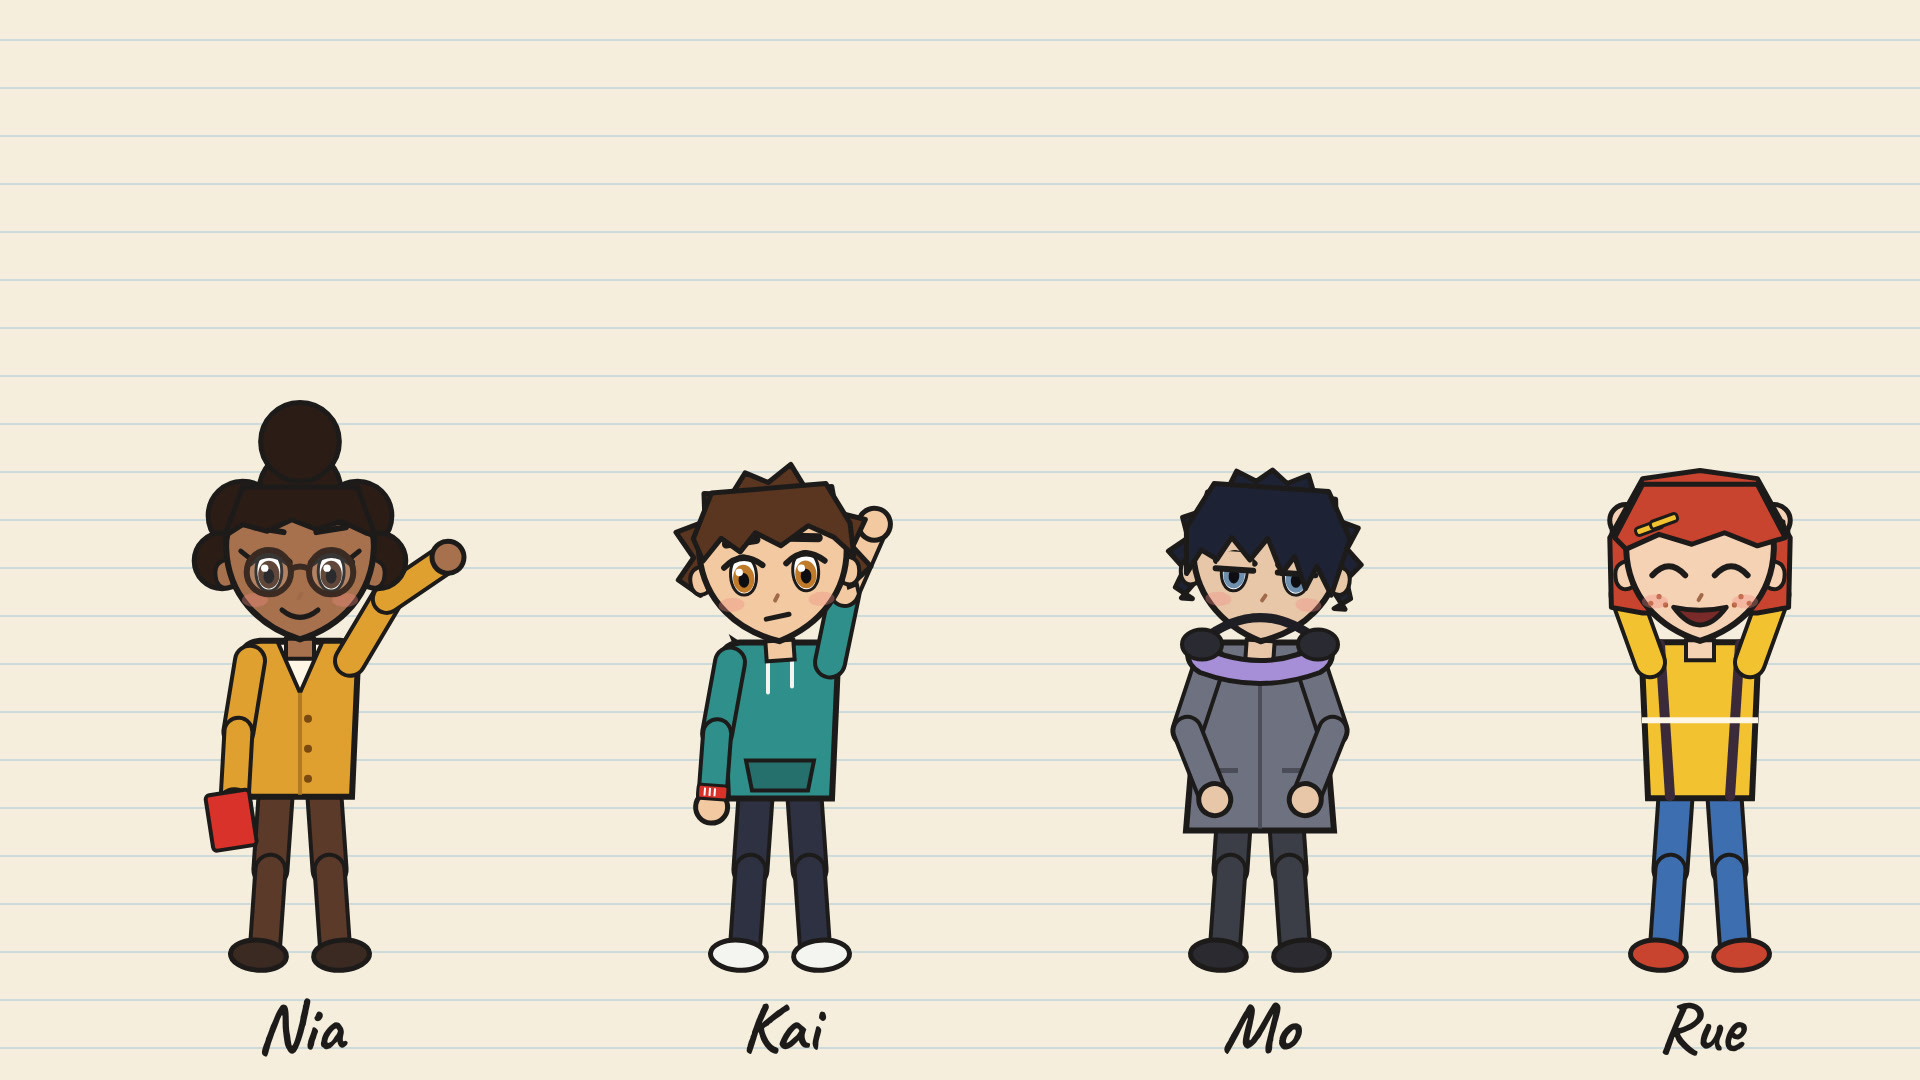
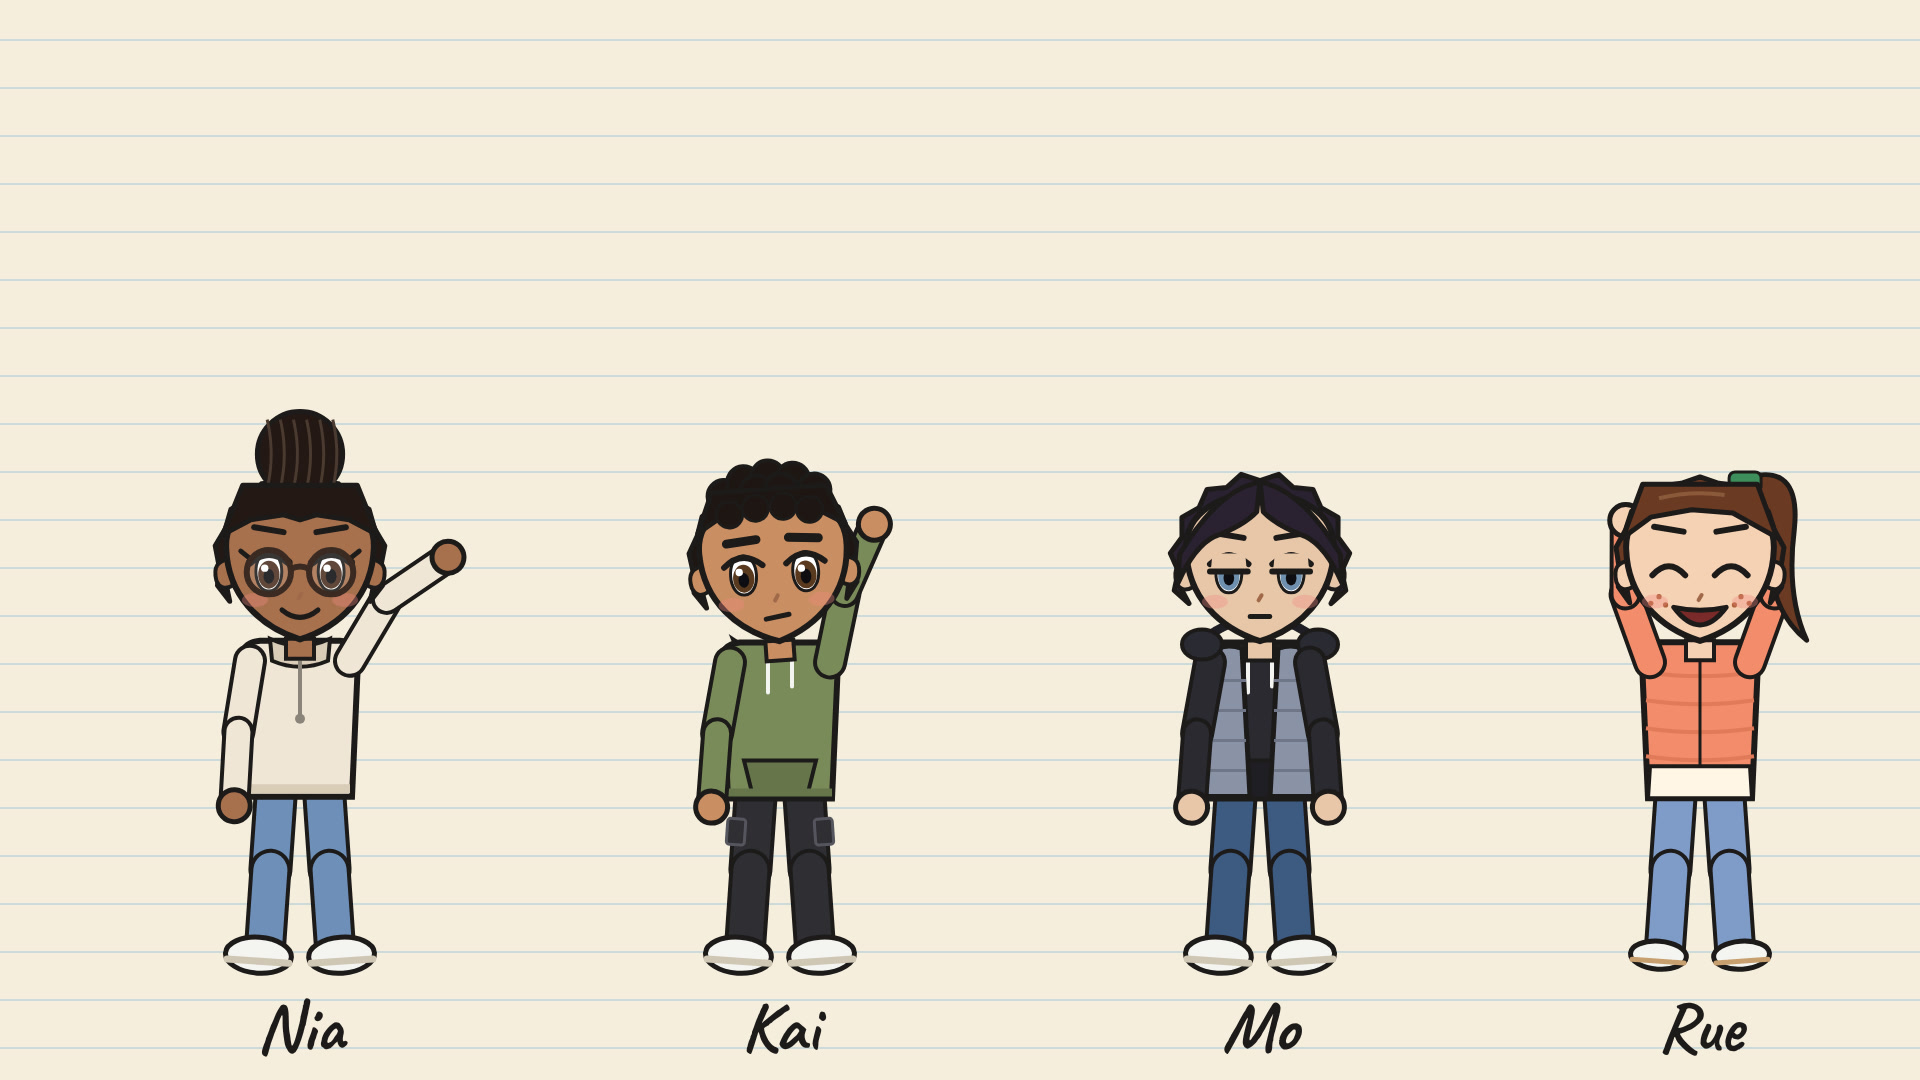
Social Ripple cast: common hairstyles + current streetwear
Claude-Session: https://claude.ai/code/session_01BFgAxmP7ubruifvaTKx5Vg

diff --git a/research/meta-muse/social-ripple/shorts/kit/cast.js b/research/meta-muse/social-ripple/shorts/kit/cast.js
@@ -11,10 +11,10 @@
     const el = I.el, INK = I.INKC, NS = "http://www.w3.org/2000/svg";
     const clamp = (v, a, b) => Math.max(a, Math.min(b, v)), ease = (u) => (u < 0.5 ? 4 * u * u * u : 1 - Math.pow(-2 * u + 2, 3) / 2);
     const D = {
-      nia: { skin: "#A8714E", hair: "#2B1D16", hairStyle: "puff", top: "#E0A030", top2: "#FFF6E6", pants: "#5B3A2A", shoe: "#3A2A22", eye: "#4A2E1E", glasses: true, notebook: true, lash: true },
-      kai: { skin: "#F2C9A0", hair: "#5A3520", hairStyle: "swoop", top: "#2F8F8A", top2: "#25706C", pants: "#2D3142", shoe: "#F4F4F0", eye: "#C07A2A", brows: "thick", torn: true, wristband: true, hood: true },
-      mo: { skin: "#E8C7A8", hair: "#1E2235", hairStyle: "shag", top: "#6E7280", top2: "#5C606C", pants: "#3B3E48", shoe: "#2A2A30", eye: "#6F8FAF", scarf: "#A68FD6", phones: true, tired: true, coat: true },
-      rue: { skin: "#F6D2B4", hair: "#C8442E", hairStyle: "bob", top: "#F2C230", top2: "#E0A81E", pants: "#3D6FB0", shoe: "#C8442E", eye: "#3E8E5A", freckles: true, straps: true, bandage: true, clips: true },
+      nia: { skin: "#A8714E", hair: "#231813", hairStyle: "braidbun", top: "#EFE6D6", top2: "#D9CDB8", pants: "#6E8FB8", shoe: "#F4F4F0", eye: "#4A2E1E", glasses: true, lash: true, halfzip: true, wide: true, chunky: true },
+      kai: { skin: "#C98E62", hair: "#1E1612", hairStyle: "fade", top: "#7A8B5A", top2: "#66764A", pants: "#2E2E33", shoe: "#F4F4F0", eye: "#5A3A1E", brows: "thick", hood: true, hoodie: true, cargo: true, chunky: true, wide: true },
+      mo: { skin: "#E8C7A8", hair: "#2A2230", hairStyle: "curtain", top: "#2A2A30", top2: "#1E1E24", pants: "#3D5A80", shoe: "#F4F4F0", eye: "#6F8FAF", phones: true, tired: true, hood: true, vest: "#8A93A6", wide: true, chunky: true },
+      rue: { skin: "#F6D2B4", hair: "#6B3A22", hairStyle: "pony", top: "#F28C6A", top2: "#E07A58", pants: "#7F9CC8", shoe: "#F4F4F0", sole: "#C8A070", eye: "#3E8E5A", freckles: true, bandage: true, puffer: true, wide: true },
     };
     const POSES = {
       stand: { root: 0, lift: 0, side: 0, torso: 0, head: 0, aL: 10, eL: -6, aR: -10, eR: 6, lL: 4, kL: 0, lR: -4, kR: 0 },
@@ -34,8 +34,10 @@
       const limb = (p, px, py, L, w, col, end) => { const g = G(p); const seg = G(g); el("path", { d: `M0,0 L0,${L}`, stroke: INK, "stroke-width": w + 8, "stroke-linecap": "round" }, seg);
         el("path", { d: `M0,0 L0,${L}`, stroke: col, "stroke-width": w, "stroke-linecap": "round" }, seg); const j = G(g); return { g, j, px, py, L }; };
       // ---- legs (hip at 0,0; feet at y=+170)
-      const legs = [-1, 1].map((d) => { const th = limb(body, d * 24, 0, 80, 30, c.pants); const sh = limb(th.j, 0, 80, 78, 26, c.pants);
-        const shoe = el("ellipse", { cx: d * 6, cy: 86, rx: 28, ry: 15, fill: c.shoe, stroke: INK, "stroke-width": 5 }, sh.j); return { th, sh, d, shoe }; });
+      const legs = [-1, 1].map((d) => { const th = limb(body, d * 24, 0, 80, c.wide ? 36 : 30, c.pants); const sh = limb(th.j, 0, 80, 78, c.wide ? 34 : 26, c.pants);
+        if (c.cargo) el("rect", { x: d > 0 ? 8 : -26, y: 30, width: 18, height: 26, rx: 3, fill: c.pants, stroke: "#55555E", "stroke-width": 3 }, th.g);
+        const shoe = el("ellipse", { cx: d * 6, cy: 86, rx: c.chunky ? 33 : 28, ry: c.chunky ? 18 : 14, fill: c.shoe, stroke: INK, "stroke-width": 5 }, sh.j);
+        el("path", { d: `M${d * 6 - (c.chunky ? 31 : 26)},${92} h${c.chunky ? 62 : 52}`, stroke: c.sole || "#CFC6B4", "stroke-width": c.chunky ? 7 : 5, "stroke-linecap": "round" }, sh.j); return { th, sh, d, shoe }; });
       // ---- torso group (pivot at hip)
       const torso = G(body);
       if (c.hood) el("path", { d: "M-46,-150 Q0,-120 46,-150 Q30,-110 0,-108 Q-30,-110 -46,-150 Z", fill: c.top2, stroke: INK, "stroke-width": 5 }, torso);
@@ -43,10 +45,10 @@
         : el("path", { d: "M-58,-128 Q-60,-146 -40,-148 L40,-148 Q60,-146 58,-128 L52,8 L-52,8 Z", fill: c.top, stroke: INK, "stroke-width": 6 }, torso);
       const tSide = el("path", { d: c.coat ? "M-36,-130 Q-38,-148 -18,-150 L22,-150 Q42,-146 40,-128 L52,40 L-46,40 Z" : "M-34,-128 Q-36,-148 -16,-150 L22,-150 Q42,-146 40,-126 L36,8 L-34,8 Z", fill: c.top, stroke: INK, "stroke-width": 6, style: "display:none" }, torso);
       const n0 = torso.childNodes.length;
-      if (name === "kai") { el("path", { d: "M-34,-30 h68 l-6,30 h-56 z", fill: c.top2, stroke: INK, "stroke-width": 4 }, torso); el("path", { d: "M-12,-138 v40 M12,-138 v34", stroke: "#F4F4F0", "stroke-width": 4, "stroke-linecap": "round" }, torso); }
-      if (name === "nia") { el("path", { d: "M-22,-146 L0,-96 L22,-146 Z", fill: c.top2, stroke: INK, "stroke-width": 4 }, torso); el("path", { d: "M0,-96 V6", stroke: "#B07A20", "stroke-width": 4 }, torso); [-70, -40, -10].forEach((yy) => el("circle", { cx: 8, cy: yy, r: 4, fill: "#7A4A10" }, torso)); }
-      if (name === "mo") { el("path", { d: "M0,-140 V38", stroke: "#4A4D58", "stroke-width": 4 }, torso); el("path", { d: "M-52,-20 h30 M22,-20 h30", stroke: "#4A4D58", "stroke-width": 5 }, torso); }
-      if (name === "rue") { el("path", { d: "M-40,-146 L-30,6 M40,-146 L30,6", stroke: "#3A2A3A", "stroke-width": 10, "stroke-linecap": "round" }, torso); el("path", { d: "M-58,-70 H58", stroke: "#FFF6E6", "stroke-width": 6 }, torso); }
+      if (c.hoodie || c.hood) { el("path", { d: "M-36,-30 h72 l-8,32 h-56 z", fill: c.top2, stroke: INK, "stroke-width": 4 }, torso); el("path", { d: "M-12,-138 v40 M12,-138 v34", stroke: "#F4F4F0", "stroke-width": 4, "stroke-linecap": "round" }, torso); el("path", { d: "M-52,2 H52", stroke: c.top2, "stroke-width": 8 }, torso); }
+      if (c.halfzip) { el("path", { d: "M-30,-150 Q0,-136 30,-150 L28,-128 Q0,-116 -28,-128 Z", fill: c.top2, stroke: INK, "stroke-width": 4 }, torso); el("path", { d: "M0,-128 V-70", stroke: "#8A847A", "stroke-width": 4 }, torso); el("circle", { cx: 0, cy: -70, r: 5, fill: "#8A847A" }, torso); el("path", { d: "M-50,0 H50", stroke: c.top2, "stroke-width": 9 }, torso); }
+      if (c.vest) { el("path", { d: "M-56,-132 Q-40,-150 -18,-142 L-10,6 L-54,6 Z M56,-132 Q40,-150 18,-142 L10,6 L54,6 Z", fill: c.vest, stroke: INK, "stroke-width": 5 }, torso); for (let k = 0; k < 4; k++) el("path", { d: `M-52,${-110 + k * 30} H-14 M14,${-110 + k * 30} H52`, stroke: "#6E7688", "stroke-width": 3 }, torso); }
+      if (c.puffer) { for (let k = 0; k < 4; k++) el("path", { d: `M-54,${-118 + k * 28} Q0,${-110 + k * 28} 54,${-118 + k * 28}`, fill: "none", stroke: c.top2, "stroke-width": 4 }, torso); el("path", { d: "M0,-146 V-24", stroke: INK, "stroke-width": 3 }, torso); el("path", { d: "M-50,-24 H50 L52,8 H-52 Z", fill: "#FFF6E6", stroke: INK, "stroke-width": 4 }, torso); }
       const det = el("g", {}); Array.from(torso.childNodes).slice(n0).forEach((nd) => det.appendChild(nd)); torso.appendChild(det);
       // ---- arms (shoulders at ±50,-128)
       const sleeve = c.top;
@@ -64,7 +66,13 @@
       const ring = (a0, a1, n, rin, rout, jit) => { const pts = []; for (let i = 0; i <= n; i++) { const a = (a0 + (a1 - a0) * i / n) * Math.PI / 180, rr = i % 2 ? rout + (((i * 37) % 7) - 3) / 3 * jit : rin; pts.push([Math.cos(a) * rr, Math.sin(a) * rr]); } return pts; };
       const poly = (pts) => "M" + pts.map((q) => U(q[0], q[1])).join(" L") + " Z";
       // back hair
-      if (c.hairStyle === "puff") { [[-0.7, -0.55, 0.42], [0, -0.85, 0.5], [0.7, -0.55, 0.42], [-0.95, 0.0, 0.34], [0.95, 0.0, 0.34], [0, -1.45, 0.48]].forEach(([u, v, rr]) => el("circle", { cx: u * r, cy: -228 + v * r, r: rr * r, fill: c.hair, stroke: INK, "stroke-width": 5 }, headG)); }
+ if (c.hairStyle === "braidbun") { P(poly(ring(150, 390, 18, 0.99, 1.05, 0.0).concat([[0.95, 0.05], [-0.95, 0.05]])), c.hair, 5); el("circle", { cx: 0, cy: -228 - 1.3 * r, r: 0.52 * r, fill: c.hair, stroke: INK, "stroke-width": 5 }, headG);
+        for (let k = 0; k < 6; k++) el("path", { d: `M${(-0.4 + k * 0.16) * r},${-228 - 1.72 * r} q8,${0.42 * r} 0,${0.84 * r}`, fill: "none", stroke: "#4A3A30", "stroke-width": 3 }, headG); }
+      if (c.hairStyle === "fade") { P(poly(ring(150, 390, 18, 0.99, 1.04, 0.0).concat([[0.95, 0.05], [-0.95, 0.05]])), c.hair, 5); [[-0.55, -0.85], [-0.3, -1.0], [0, -1.05], [0.3, -1.0], [0.55, -0.85], [-0.15, -0.88], [0.15, -0.88], [-0.42, -0.7], [0.42, -0.7]].forEach(([u, v]) => el("circle", { cx: u * r, cy: -228 + v * r, r: 0.2 * r, fill: c.hair, stroke: INK, "stroke-width": 4 }, headG)); }
+      if (c.hairStyle === "curtain") P(poly(ring(150, 390, 20, 1.0, 1.1, 0.0).concat([[1.0, 0.25], [-1.0, 0.25]])), c.hair, 5);
+      if (c.hairStyle === "pony") { P(`M${U(0.35, -0.95)} Q${U(1.25, -1.35)} ${U(1.15, -0.4)} Q${U(1.05, 0.4)} ${U(1.3, 0.95)} Q${U(0.8, 0.55)} ${U(0.85, -0.3)} Z`, c.hair, 5); P(poly(ring(150, 390, 18, 0.99, 1.04, 0.0).concat([[0.95, 0.05], [-0.95, 0.05]])), c.hair, 5);
+        el("rect", { x: 0.55 * r - 16, y: -228 - 0.98 * r - 10, width: 32, height: 20, rx: 6, fill: "#3E8E5A", stroke: INK, "stroke-width": 3 }, headG); }
+     if (c.hairStyle === "puff") { [[-0.7, -0.55, 0.42], [0, -0.85, 0.5], [0.7, -0.55, 0.42], [-0.95, 0.0, 0.34], [0.95, 0.0, 0.34], [0, -1.45, 0.48]].forEach(([u, v, rr]) => el("circle", { cx: u * r, cy: -228 + v * r, r: rr * r, fill: c.hair, stroke: INK, "stroke-width": 5 }, headG)); }
       if (c.hairStyle === "swoop") P(poly(ring(160, 380, 16, 0.98, 1.2, 0.05).concat([[0.95, 0.05], [-0.95, 0.05]])), c.hair, 5);
       if (c.hairStyle === "shag") P(poly(ring(150, 390, 22, 1.0, 1.16, 0.04).concat([[1.0, 0.5], [0.85, 0.3], [-0.85, 0.3], [-1.0, 0.5]])), c.hair, 5);
       if (c.hairStyle === "bob") P(poly([[-1.08, 0.55], [-1.1, -0.3], [-0.7, -1.02], [0, -1.12], [0.7, -1.02], [1.1, -0.3], [1.08, 0.55], [0.7, 0.62], [-0.7, 0.62]]), c.hair, 5);
@@ -73,7 +81,7 @@
       P(`M${U(-0.86, -0.02)} q${-0.22 * r},${0.02 * r} ${-0.16 * r},${0.26 * r} q${0.06 * r},${0.14 * r} ${0.2 * r},${0.06 * r} z`, c.skin, 4);
       const earR = P(`M${U(0.86, -0.02)} q${0.22 * r},${0.02 * r} ${0.16 * r},${0.26 * r} q${-0.06 * r},${0.14 * r} ${-0.2 * r},${0.06 * r} z`, c.skin, 4);
       P(`M${U(-0.9, -0.15)} C${U(-0.95, -1.08)} ${U(0.95, -1.08)} ${U(0.9, -0.15)} C${U(0.88, 0.42)} ${U(0.5, 0.8)} ${U(0, 0.96)} C${U(-0.5, 0.8)} ${U(-0.88, 0.42)} ${U(-0.9, -0.15)} Z`, c.skin, 6);
-      if (c.phones) { el("path", { d: "M-58,-150 Q0,-196 58,-150", fill: "none", stroke: "#1E1E24", "stroke-width": 9 }, torso); [-1, 1].forEach((dd) => el("ellipse", { cx: dd * 58, cy: -146, rx: 20, ry: 15, fill: "#2A2A33", stroke: INK, "stroke-width": 4 }, torso)); }
+      if (c.phones) { const ph = el("g", {}); el("path", { d: "M-58,-150 Q0,-196 58,-150", fill: "none", stroke: "#1E1E24", "stroke-width": 9 }, ph); [-1, 1].forEach((dd) => el("ellipse", { cx: dd * 58, cy: -146, rx: 20, ry: 15, fill: "#2A2A33", stroke: INK, "stroke-width": 4 }, ph)); torso.insertBefore(ph, headG); }
       const f0 = headG.childNodes.length;
       if (c.freckles) [-1, 1].forEach((dd) => [[0.5, 0.42], [0.6, 0.5], [0.42, 0.52]].forEach(([u, v]) => el("circle", { cx: dd * u * r, cy: -228 + v * r, r: 2.6, fill: "#B0603A" }, headG)));
       el("ellipse", { cx: -0.55 * r, cy: -228 + 0.48 * r, rx: 13, ry: 7, fill: "#F08A80", opacity: 0.35 }, headG); el("ellipse", { cx: 0.55 * r, cy: -228 + 0.48 * r, rx: 13, ry: 7, fill: "#F08A80", opacity: 0.35 }, headG);
@@ -97,7 +105,12 @@
       const talk = el("path", { d: "", fill: "#7A2A2A", stroke: INK, "stroke-width": 5, "stroke-linejoin": "round", style: "display:none" }, headG);
       const faceG = el("g", {}); Array.from(headG.childNodes).slice(f0).forEach((nd) => faceG.appendChild(nd)); headG.appendChild(faceG);
       // front hair
-      if (c.hairStyle === "swoop") P(poly([[-0.96, -0.36], [-0.86, -0.08], [-0.62, -0.34], [-0.4, -0.16], [-0.2, -0.38], [0.1, -0.2], [0.45, -0.42], [0.75, -0.26], [0.98, -0.02], [0.96, -0.42], [0.7, -0.92], [-0.7, -0.9]]), c.hair, 5);
+ if (c.hairStyle === "braidbun") P(poly([[-0.94, -0.32], [-0.6, -0.5], [-0.2, -0.56], [0.0, -0.5], [0.2, -0.56], [0.6, -0.5], [0.94, -0.32], [0.7, -0.92], [-0.7, -0.92]]), c.hair, 5);
+      if (c.hairStyle === "fade") { P(poly([[-0.9, -0.42], [-0.6, -0.6], [-0.2, -0.66], [0.2, -0.66], [0.6, -0.6], [0.9, -0.42], [0.7, -0.9], [-0.7, -0.9]]), c.hair, 5); [[-0.5, -0.62], [-0.18, -0.68], [0.16, -0.68], [0.48, -0.62]].forEach(([u, v]) => el("circle", { cx: u * r, cy: -228 + v * r, r: 0.16 * r, fill: c.hair, stroke: INK, "stroke-width": 3 }, headG)); }
+      if (c.hairStyle === "curtain") { P(`M${U(0, -0.98)} Q${U(-0.5, -0.9)} ${U(-0.98, -0.1)} L${U(-1.0, 0.25)} Q${U(-0.8, -0.2)} ${U(-0.55, -0.32)} Q${U(-0.2, -0.45)} ${U(-0.04, -0.62)} Z`, c.hair, 5);
+        P(`M${U(0, -0.98)} Q${U(0.5, -0.9)} ${U(0.98, -0.1)} L${U(1.0, 0.25)} Q${U(0.8, -0.2)} ${U(0.55, -0.32)} Q${U(0.2, -0.45)} ${U(0.04, -0.62)} Z`, c.hair, 5); }
+      if (c.hairStyle === "pony") { P(poly([[-0.94, -0.3], [-0.6, -0.55], [-0.1, -0.64], [0.4, -0.6], [0.94, -0.3], [0.7, -0.95], [-0.7, -0.95]]), c.hair, 5); el("path", { d: `M${U(-0.5, -0.78)} Q${U(-0.1, -0.88)} ${U(0.3, -0.82)}`, fill: "none", stroke: "#8A5A3A", "stroke-width": 4 }, headG); }
+     if (c.hairStyle === "swoop") P(poly([[-0.96, -0.36], [-0.86, -0.08], [-0.62, -0.34], [-0.4, -0.16], [-0.2, -0.38], [0.1, -0.2], [0.45, -0.42], [0.75, -0.26], [0.98, -0.02], [0.96, -0.42], [0.7, -0.92], [-0.7, -0.9]]), c.hair, 5);
       if (c.hairStyle === "shag") P(poly([[-1.0, -0.36], [-0.96, 0.2], [-0.8, -0.1], [-0.6, 0.0], [-0.44, -0.28], [-0.2, -0.02], [0.0, -0.3], [0.2, 0.12], [0.34, -0.1], [0.5, 0.28], [0.62, 0.0], [0.82, 0.34], [1.0, -0.36], [0.7, -0.92], [-0.7, -0.92]]), c.hair, 5);
       if (c.hairStyle === "bob") P(poly([[-1.04, -0.3], [-0.9, -0.16], [-0.5, -0.34], [-0.1, -0.22], [0.3, -0.36], [0.7, -0.2], [1.04, -0.3], [0.7, -0.95], [-0.7, -0.95]]), c.hair, 5);
       if (c.hairStyle === "puff") P(poly([[-0.92, -0.3], [-0.7, -0.44], [-0.4, -0.36], [-0.1, -0.5], [0.2, -0.38], [0.5, -0.48], [0.8, -0.34], [0.92, -0.3], [0.7, -0.9], [-0.7, -0.9]]), c.hair, 5);

diff --git a/research/meta-muse/social-ripple/cast/CAST.md b/research/meta-muse/social-ripple/cast/CAST.md
@@ -1,12 +1,12 @@
 # The Social Ripple crew (original characters)
 
-All four are our own designs, rigged in `../shorts/kit/cast.js` (joints, poses, walk cycle, push-up IK, expressions, blink, breathing, lip-sync to narration).
+All four are our own designs, rigged in `../shorts/kit/cast.js` (joints, poses, side and front views, walk cycle, push-up IK with planted hands, expressions, blink, breathing, lip-sync to narration). Styled with common hairstyles and current streetwear.
 
-| Character | Role | Look |
-|---|---|---|
-| **Nia** | Host and narrator; warm, curious | Curly puff bun, big round glasses, mustard cardigan, red notebook |
-| **Kai** | The grinder: trains, quits, comes back | Brown swoop hair, teal hoodie with one torn sleeve, red tally wristband, white sneakers |
-| **Mo** | The quiet one who feels left out | Shaggy navy hair over one eye, tired eyes, grey coat, lavender scarf, headphones round the neck |
-| **Rue** | The loyal friend who shows up | Red bob with yellow clips, freckles, yellow jacket, backpack straps, bandaged knuckle |
+| Character | Role | Hair | Outfit |
+|---|---|---|---|
+| **Nia** | Host and narrator; warm, curious | Box braids in a high bun | Round glasses, oversized cream half-zip, light-wash wide-leg jeans, chunky white sneakers |
+| **Kai** | The grinder: trains, quits, comes back | Low taper fade, curly top | Oversized olive hoodie, black cargo pants, chunky white sneakers |
+| **Mo** | The quiet one who feels left out | Middle-part curtain hair | Black hoodie under a grey puffer vest, baggy jeans, headphones round the neck |
+| **Rue** | The loyal friend who shows up | Sleek high ponytail, claw clip | Cropped coral puffer over a white tee, light-wash baggy jeans, low-profile sneakers |
 
-Poses: stand, wave, fist, cheer, point, think, look, slump, pockets, pushUp, pushDown, flat. Expressions: neutral, smile, grin, sad, strain, wow, determined, tired.
+Per-story characters: when an episode needs a specific role (the shunned kid, the mentor, the rival), we design an original character for that story, clearly distinct from the anime's designs.
